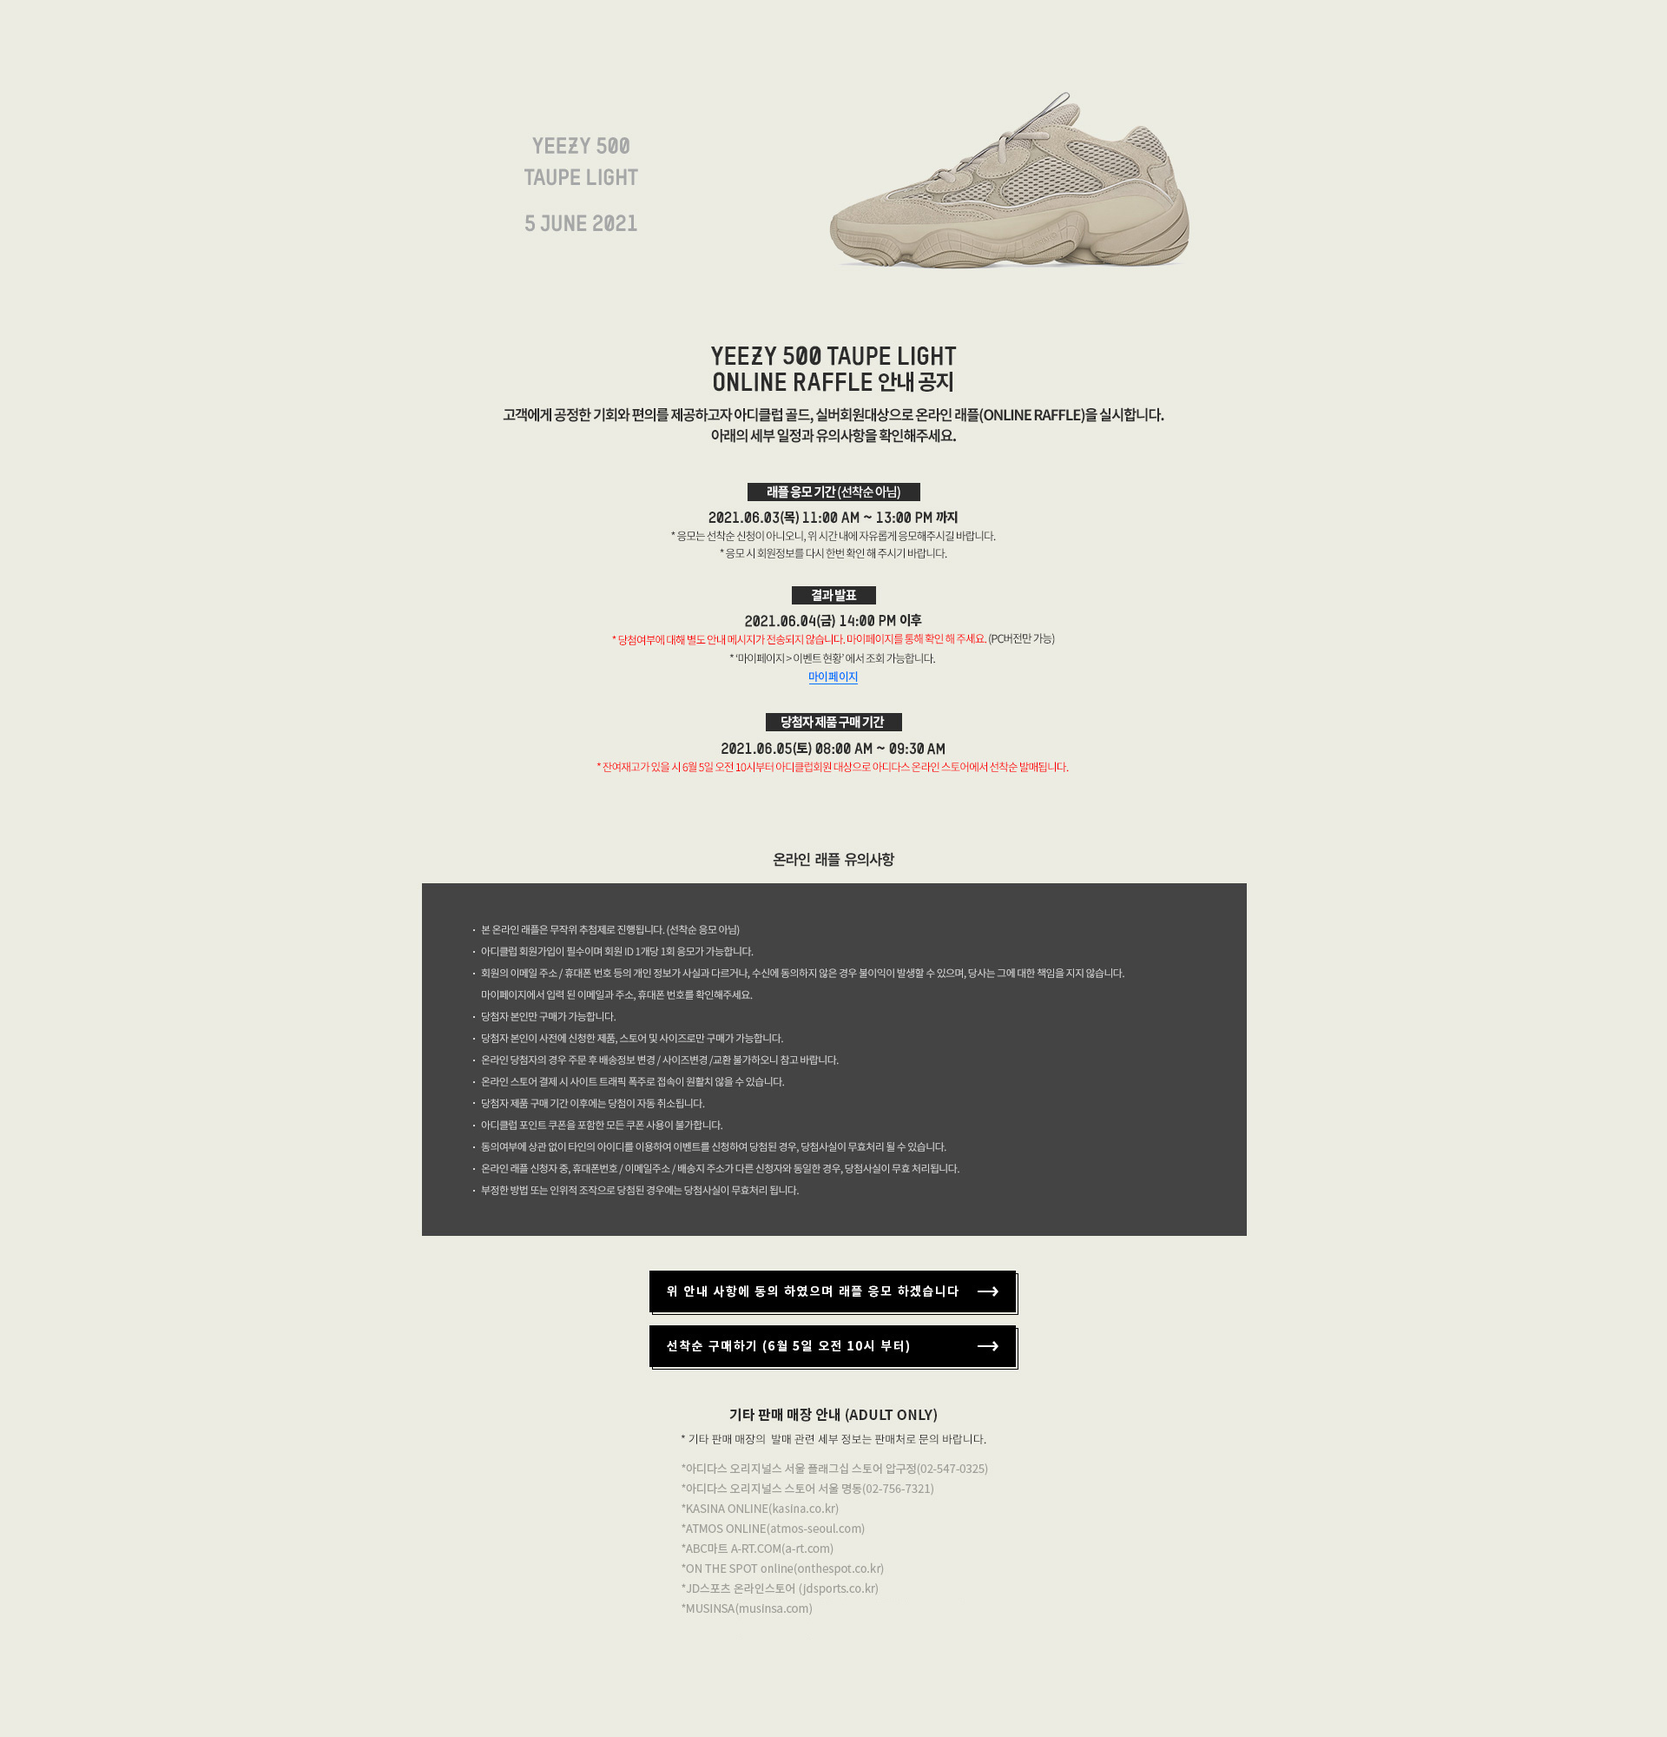
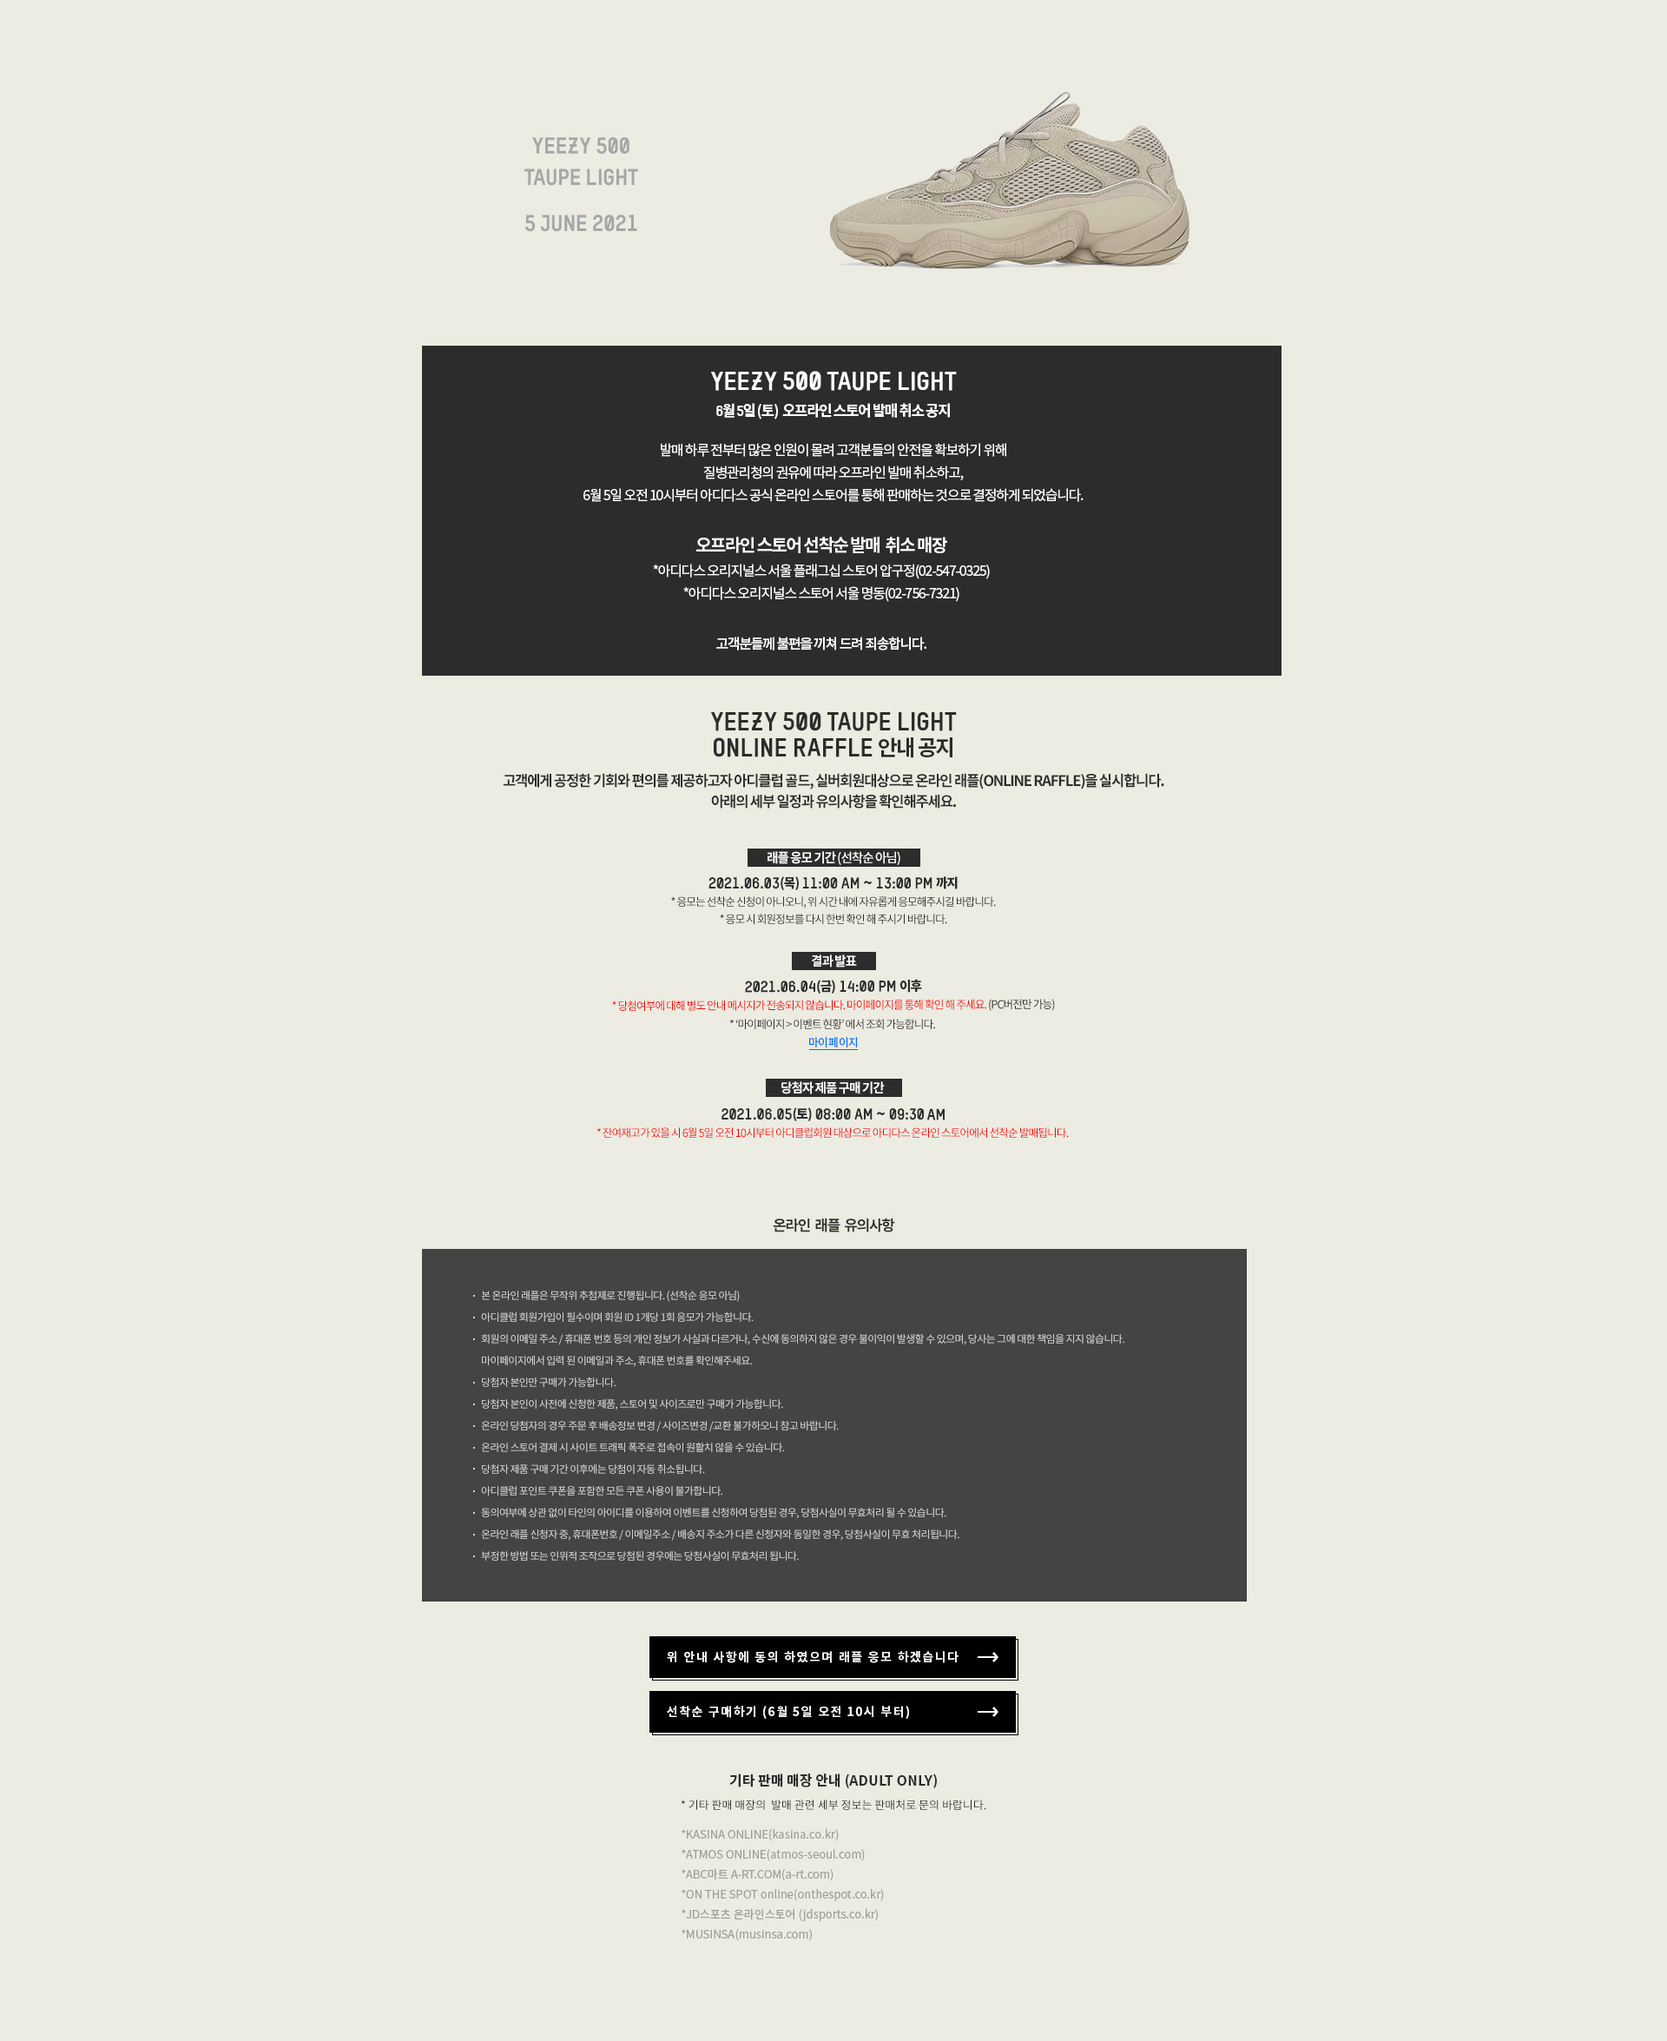
이지 금일 아삽

Changed region(s): [[0.25, 0.031, 0.7812, 0.961]]

diff --git a/front/html/adidas/html/pn/YEEZY_INFORMATION.html b/front/html/adidas/html/pn/YEEZY_INFORMATION.html
@@ -1,58 +1,209 @@
 <div id="container_r" class="campaign-content">
-	<style type="text/css">.pseudo-element{content:'';display:block}html.no_scroll{width:100%;height:100%;position:relative;overflow:hidden}#yeezy_no_raffle{width:100%;position:relative;overflow:hidden;background:#fff;min-width:1024px}#yeezy_no_raffle .visual{position:relative;height:1128px}#yeezy_no_raffle .visual .bg{position:absolute;top:0;left:50%;margin-left:-960px}#yeezy_no_raffle .visual .bg img{display:block}#yeezy_no_raffle .top_wrap{display:none;background:#eeeeee;text-align:center;padding-top:70px;position:relative;height:400px}#yeezy_no_raffle .top_wrap h3{font:700 47px 'NotoSansKR';color:#000;text-align:center}#yeezy_no_raffle .top_wrap h3::after{content:'';width:45px;height:1px;background:#000;margin:20px 0;display:block;position:relative;left:50%;margin-left:-20px}#yeezy_no_raffle .top_wrap p.desc1{font:400 18px/26px 'NotoSansKR';color:#000;margin-bottom:30px;text-align:center}#yeezy_no_raffle .top_wrap p.desc1 span{font:18px/26px 'adinenuPro-regular';text-align:center}#yeezy_no_raffle .top_wrap p.desc2{font:500 20px/28px 'NotoSansKR';color:#000;margin-bottom:30px;text-align:center}#yeezy_no_raffle .top_wrap a{width:455px;height:60px;padding-top:10px;position:absolute;bottom:70px;left:50%;margin-left:-225px}#yeezy_no_raffle .top_wrap a span{font:400 18px/50px 'NotoSansKR'}#yeezy_no_raffle .olapic-wrapper{position:relative;left:50%;margin-left:-475px;width:951px;margin-top:60px}#yeezy_no_raffle .olapic-wrapper p.desc{text-align:center;font:400 14px/20px 'NotoSansKR';color:#000;margin-top:15px}#yeezy_no_raffle .banner_wrap{width:951px;position:relative;left:50%;margin-left:-475px;margin-top:70px;margin-bottom:100px;height:380px}#yeezy_no_raffle .banner_wrap>div{transition:box-shadow 0.3s ease-out;-webkit-transition:box-shadow 0.3s ease-out}#yeezy_no_raffle .banner_wrap>div:hover{box-shadow:0 0 20px rgba(0,0,0,0.5)}#yeezy_no_raffle .banner_wrap .banner_left{float:left}#yeezy_no_raffle .banner_wrap .banner_right{float:right}
+	<style type="text/css">
+		.pseudo-element {
+			content: '';
+			display: block
+		}
+
+		html.no_scroll {
+			width: 100%;
+			height: 100%;
+			position: relative;
+			overflow: hidden
+		}
+
+		#yeezy_no_raffle {
+			width: 100%;
+			position: relative;
+			overflow: hidden;
+			background: #fff;
+			min-width: 1024px
+		}
+
+		#yeezy_no_raffle .visual {
+			position: relative;
+			height: 1128px
+		}
+
+		#yeezy_no_raffle .visual .bg {
+			position: absolute;
+			top: 0;
+			left: 50%;
+			margin-left: -960px
+		}
+
+		#yeezy_no_raffle .visual .bg img {
+			display: block
+		}
+
+		#yeezy_no_raffle .top_wrap {
+			display: none;
+			background: #eeeeee;
+			text-align: center;
+			padding-top: 70px;
+			position: relative;
+			height: 400px
+		}
+
+		#yeezy_no_raffle .top_wrap h3 {
+			font: 700 47px 'NotoSansKR';
+			color: #000;
+			text-align: center
+		}
+
+		#yeezy_no_raffle .top_wrap h3::after {
+			content: '';
+			width: 45px;
+			height: 1px;
+			background: #000;
+			margin: 20px 0;
+			display: block;
+			position: relative;
+			left: 50%;
+			margin-left: -20px
+		}
+
+		#yeezy_no_raffle .top_wrap p.desc1 {
+			font: 400 18px/26px 'NotoSansKR';
+			color: #000;
+			margin-bottom: 30px;
+			text-align: center
+		}
+
+		#yeezy_no_raffle .top_wrap p.desc1 span {
+			font: 18px/26px 'adinenuPro-regular';
+			text-align: center
+		}
+
+		#yeezy_no_raffle .top_wrap p.desc2 {
+			font: 500 20px/28px 'NotoSansKR';
+			color: #000;
+			margin-bottom: 30px;
+			text-align: center
+		}
+
+		#yeezy_no_raffle .top_wrap a {
+			width: 455px;
+			height: 60px;
+			padding-top: 10px;
+			position: absolute;
+			bottom: 70px;
+			left: 50%;
+			margin-left: -225px
+		}
+
+		#yeezy_no_raffle .top_wrap a span {
+			font: 400 18px/50px 'NotoSansKR'
+		}
+
+		#yeezy_no_raffle .olapic-wrapper {
+			position: relative;
+			left: 50%;
+			margin-left: -475px;
+			width: 951px;
+			margin-top: 60px
+		}
+
+		#yeezy_no_raffle .olapic-wrapper p.desc {
+			text-align: center;
+			font: 400 14px/20px 'NotoSansKR';
+			color: #000;
+			margin-top: 15px
+		}
+
+		#yeezy_no_raffle .banner_wrap {
+			width: 951px;
+			position: relative;
+			left: 50%;
+			margin-left: -475px;
+			margin-top: 70px;
+			margin-bottom: 100px;
+			height: 380px
+		}
+
+		#yeezy_no_raffle .banner_wrap>div {
+			transition: box-shadow 0.3s ease-out;
+			-webkit-transition: box-shadow 0.3s ease-out
+		}
+
+		#yeezy_no_raffle .banner_wrap>div:hover {
+			box-shadow: 0 0 20px rgba(0, 0, 0, 0.5)
+		}
+
+		#yeezy_no_raffle .banner_wrap .banner_left {
+			float: left
+		}
+
+		#yeezy_no_raffle .banner_wrap .banner_right {
+			float: right
+		}
 	</style>
-				<link type="text/css" rel="stylesheet" href="//image.adidas.co.kr//css/adidas/event/campaign.css" />
-				<script type="text/javascript" src="//image.adidas.co.kr//js/adidas/event/commonCampaign.js"></script>
-	
-				<div id="yeezy_no_raffle">
-					<div class="visual" style="height:1000px;">
-						<div class="bg">
-							<img src="/images/adidas/2021/event/yeezy_information/0607/210601_a_yeezy_info_DT.jpg" alt=""
-								border="0" usemap="#map01">
-							<map name="map01" id="map01">
-								<area shape="rect" href="https://shop.adidas.co.kr/PF070801.action?pageNo=1315"
-									onfocus="blur();" coords="817,399,1105,454" campaign-label="선착순 구매하기" alt="선착순 구매하기">
-							</map>
-						</div>
-					</div>
-					<div class="olapic-wrapper">
-						<div id="olapic_specific_widget"></div>
-						<p class="desc">위 이지부스트 제품 사진은 이번 레플 제품과는 관련이 없습니다.</p>
-						<script type="text/javascript"
-							src="https://photorankstatics-a.akamaihd.net/81b03e40475846d5883661ff57b34ece/static/frontend/latest/build.min.js"
-							data-olapic="olapic_specific_widget" data-lang="KO_KO"
-							data-instance="d41d85011c75c020bd81aa2f868e6aa8"
[1 lines of base64/hex data omitted]
-							async="async"></script>
-					</div>
-	
-					<div class="banner_wrap">
-						<div class="banner_left">
-							<a href="https://shop.adidas.co.kr/PF010102.action?S_LEVEL=3&S_CTGR_CD=01001&NFN_ST=Y"
-								campaign-label="new items"><img
-									src="/images/adidas/2020/event/yeezy_information/common/2003_a_f_new_DT.jpg"
-									alt="new items"></a>
-						</div>
-						<div class="banner_right">
-							<!-- <a href="http://shop.adidas.co.kr/vr/BCS_GBC/web/index.html" target="_blank"><img src="http://image.adidas.co.kr/images/adidas/event/yeezy_no_raffle/banner02.jpg" alt=""></a> -->
-							<a href="https://shop.adidas.co.kr/PF010103.action?S_LEVEL=3&S_CTGR_CD=01001" target="_blank"
-								campaign-label="best items"><img
-									src="/images/adidas/2020/event/yeezy_information/common/2003_a_f_best_DT.jpg"
-									alt="best items"></a>
-						</div>
-					</div>
-				</div>
-	
-				<script type="text/javascript">
-					$(window).load(function () {
-	
-						// 이미지 높이값 가져와서 대입하는 스크립트
-						// var mainImgHeight = $('.visual .bg').find('img').height();
-						// $('.visual').css('height', mainImgHeight);
-						// console.log(mainImgHeight);
-	
-	
-					});
-				</script>
-	
+	<link type="text/css" rel="stylesheet" href="//image.adidas.co.kr//css/adidas/event/campaign.css" />
+	<script type="text/javascript" src="//image.adidas.co.kr//js/adidas/event/commonCampaign.js"></script>
+
+	<div id="yeezy_no_raffle">
+		<div class="visual" style="height:2350px;">
+			<div class="bg">
+				<img src="/images/adidas/2021/event/yeezy_information/0602/210601_a_yeezy_raffle_DT.jpg" alt=""
+					border="0" usemap="#map01">
+				<map name="map01" id="map01">
+					<area shape="rect" href="https://shop.adidas.co.kr/PF060100.action" onfocus="blur();"
+						coords="927,769,990,790" campaign-label="응모하기" alt="응모하기">
+					<area shape="rect" href="https://shop.adidas.co.kr/index_preApply.html?pn=yeezy500"
+						onfocus="blur();" coords="747,1880,1170,1930" campaign-label="응모하기" alt="응모하기">
+					<area shape="rect" href="https://shop.adidas.co.kr/PF070801.action?pageNo=1315" onfocus="blur();"
+						coords="747,1946,1172,1990" campaign-label="선착순 구매하기" alt="선착순 구매하기">
+				</map>
 			</div>
+		</div>
+		<div class="visual" style="height:1200px;">
+			<div class="bg">
+				<img src="/images/adidas/2021/event/yeezy_information/0531/210531_a_yeezy_info_DT.jpg" alt="" border="0"
+					usemap="#map02">
+				<map name="map02" id="map02">
+					<!-- <area shape="rect" href="https://shop.adidas.co.kr/PF060701.action" onfocus="blur();" coords="927,1004,990,1024" campaign-label="마이페이지" alt="마이페이지">
+												<area shape="rect" href="https://shop.adidas.co.kr/index_preApply.html?pn=foam" onfocus="blur();" coords="747,1697,1175,1751" campaign-label="응모하기" alt="응모하기"> -->
+					<area shape="rect" href="https://shop.adidas.co.kr/PF070801.action?pageNo=1315" onfocus="blur();"
+						coords="818,402,1102,453" campaign-label="선착순 구매하기" alt="선착순 구매하기">
+				</map>
+			</div>
+		</div>
+		<div class="olapic-wrapper">
+			<div id="olapic_specific_widget"></div>
+			<p class="desc">위 이지부스트 제품 사진은 이번 레플 제품과는 관련이 없습니다.</p>
+			<script type="text/javascript"
+				src="https://photorankstatics-a.akamaihd.net/81b03e40475846d5883661ff57b34ece/static/frontend/latest/build.min.js"
+				data-olapic="olapic_specific_widget" data-lang="KO_KO" data-instance="d41d85011c75c020bd81aa2f868e6aa8"
[1 lines of base64/hex data omitted]
+		</div>
+
+		<div class="banner_wrap">
+			<div class="banner_left">
+				<a href="https://shop.adidas.co.kr/PF010102.action?S_LEVEL=3&S_CTGR_CD=01001&NFN_ST=Y"
+					campaign-label="new items"><img
+						src="/images/adidas/2020/event/yeezy_information/common/2003_a_f_new_DT.jpg"
+						alt="new items"></a>
+			</div>
+			<div class="banner_right">
+				<!-- <a href="http://shop.adidas.co.kr/vr/BCS_GBC/web/index.html" target="_blank"><img src="http://image.adidas.co.kr/images/adidas/event/yeezy_no_raffle/banner02.jpg" alt=""></a> -->
+				<a href="https://shop.adidas.co.kr/PF010103.action?S_LEVEL=3&S_CTGR_CD=01001" target="_blank"
+					campaign-label="best items"><img
+						src="/images/adidas/2020/event/yeezy_information/common/2003_a_f_best_DT.jpg"
+						alt="best items"></a>
+			</div>
+		</div>
+	</div>
+
+	<script type="text/javascript">
+		$(window).load(function () {
+
+			// 이미지 높이값 가져와서 대입하는 스크립트
+			// var mainImgHeight = $('.visual .bg').find('img').height();
+			// $('.visual').css('height', mainImgHeight);
+			// console.log(mainImgHeight);
+
+
+		});
+	</script>
+
+</div>

diff --git a/front/html/adidas/2021/event/yeezy_information/build/index.html b/front/html/adidas/2021/event/yeezy_information/build/index.html
@@ -46,13 +46,29 @@
 			<script type="text/javascript" src="//image.adidas.co.kr//js/adidas/event/commonCampaign.js"></script>
 
 			<div id="yeezy_no_raffle">
-				<div class="visual" style="height:1000px;">
+				<div class="visual" style="height:2350px;">
 					<div class="bg">
-						<img src="/images/adidas/2021/event/yeezy_information/0607/210601_a_yeezy_info_DT.jpg" alt=""
+						<img src="/images/adidas/2021/event/yeezy_information/0602/210601_a_yeezy_raffle_DT.jpg" alt=""
 							border="0" usemap="#map01">
 						<map name="map01" id="map01">
+							<area shape="rect" href="https://shop.adidas.co.kr/PF060100.action" onfocus="blur();"
+								coords="927,769,990,790" campaign-label="응모하기" alt="응모하기">
+							<area shape="rect" href="https://shop.adidas.co.kr/index_preApply.html?pn=yeezy500"
+								onfocus="blur();" coords="747,1880,1170,1930" campaign-label="응모하기" alt="응모하기">
 							<area shape="rect" href="https://shop.adidas.co.kr/PF070801.action?pageNo=1315"
-								onfocus="blur();" coords="817,399,1105,454" campaign-label="선착순 구매하기" alt="선착순 구매하기">
+								onfocus="blur();" coords="747,1946,1172,1990" campaign-label="선착순 구매하기" alt="선착순 구매하기">
+						</map>
+					</div>
+				</div>
+				<div class="visual" style="height:1200px;">
+					<div class="bg">
+						<img src="/images/adidas/2021/event/yeezy_information/0531/210531_a_yeezy_info_DT.jpg" alt=""
+							border="0" usemap="#map02">
+						<map name="map02" id="map02">
+							<!-- <area shape="rect" href="https://shop.adidas.co.kr/PF060701.action" onfocus="blur();" coords="927,1004,990,1024" campaign-label="마이페이지" alt="마이페이지">
+											<area shape="rect" href="https://shop.adidas.co.kr/index_preApply.html?pn=foam" onfocus="blur();" coords="747,1697,1175,1751" campaign-label="응모하기" alt="응모하기"> -->
+							<area shape="rect" href="https://shop.adidas.co.kr/PF070801.action?pageNo=1315"
+								onfocus="blur();" coords="818,402,1102,453" campaign-label="선착순 구매하기" alt="선착순 구매하기">
 						</map>
 					</div>
 				</div>

diff --git a/front/html/adidas/2021/event/yeezy_information/index.html b/front/html/adidas/2021/event/yeezy_information/index.html
@@ -44,13 +44,29 @@
 			<script type="text/javascript" src="//image.adidas.co.kr//js/adidas/event/commonCampaign.js"></script>
 
 			<div id="yeezy_no_raffle">
-				<div class="visual" style="height:1000px;">
+				<div class="visual" style="height:2350px;">
 					<div class="bg">
-						<img src="/images/adidas/2021/event/yeezy_information/0607/210601_a_yeezy_info_DT.jpg" alt=""
+						<img src="/images/adidas/2021/event/yeezy_information/0602/210601_a_yeezy_raffle_DT.jpg" alt=""
 							border="0" usemap="#map01">
 						<map name="map01" id="map01">
+							<area shape="rect" href="https://shop.adidas.co.kr/PF060100.action" onfocus="blur();"
+								coords="927,769,990,790" campaign-label="응모하기" alt="응모하기">
+							<area shape="rect" href="https://shop.adidas.co.kr/index_preApply.html?pn=yeezy500"
+								onfocus="blur();" coords="747,1880,1170,1930" campaign-label="응모하기" alt="응모하기">
 							<area shape="rect" href="https://shop.adidas.co.kr/PF070801.action?pageNo=1315"
-								onfocus="blur();" coords="817,399,1105,454" campaign-label="선착순 구매하기" alt="선착순 구매하기">
+								onfocus="blur();" coords="747,1946,1172,1990" campaign-label="선착순 구매하기" alt="선착순 구매하기">
+						</map>
+					</div>
+				</div>
+				<div class="visual" style="height:1200px;">
+					<div class="bg">
+						<img src="/images/adidas/2021/event/yeezy_information/0531/210531_a_yeezy_info_DT.jpg" alt=""
+							border="0" usemap="#map02">
+						<map name="map02" id="map02">
+							<!-- <area shape="rect" href="https://shop.adidas.co.kr/PF060701.action" onfocus="blur();" coords="927,1004,990,1024" campaign-label="마이페이지" alt="마이페이지">
+											<area shape="rect" href="https://shop.adidas.co.kr/index_preApply.html?pn=foam" onfocus="blur();" coords="747,1697,1175,1751" campaign-label="응모하기" alt="응모하기"> -->
+							<area shape="rect" href="https://shop.adidas.co.kr/PF070801.action?pageNo=1315"
+								onfocus="blur();" coords="818,402,1102,453" campaign-label="선착순 구매하기" alt="선착순 구매하기">
 						</map>
 					</div>
 				</div>
